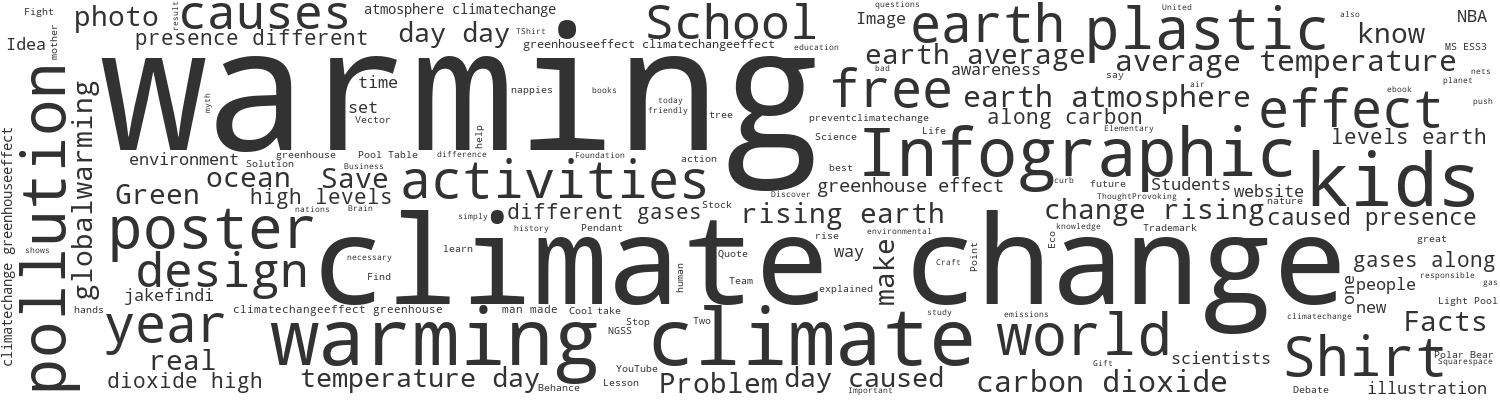
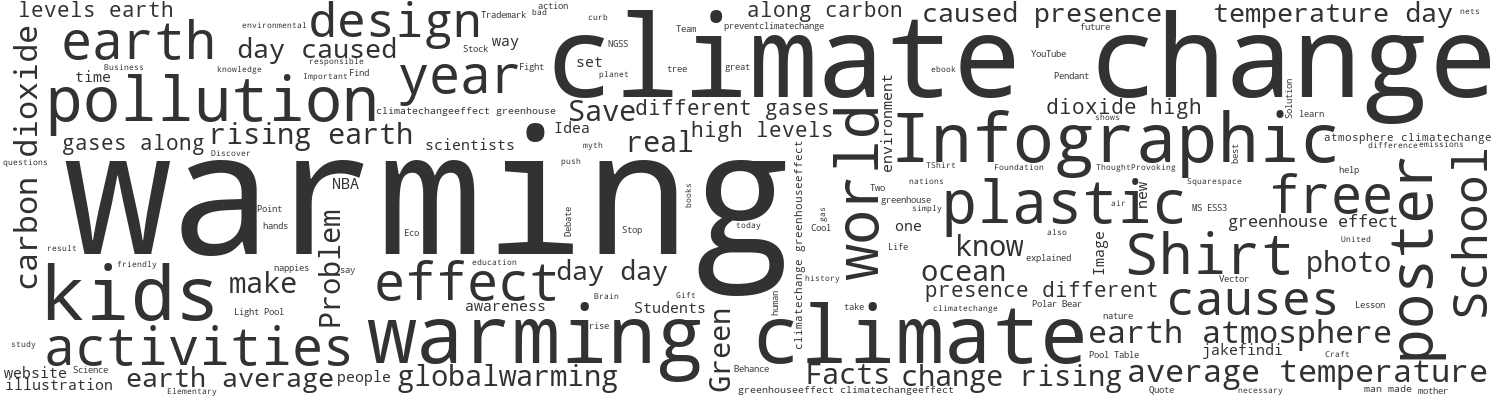
made wordclouds square

diff --git a/vision_functions.py b/vision_functions.py
@@ -143,7 +143,7 @@ def get_wordcloud(label_lists, search_term):
         
     wordcloud = WordCloud(stopwords=[search_term], background_color='white', collocations=True, 
                         max_words=150, 
-                        min_font_size=0, width= 1500, height = 400
+                        min_font_size=0, width= 600, height = 600
                         ).generate(concat_labels)
     plt.figure(figsize=[15,15])
     wordcloud.recolor(color_func=gray_color_func, random_state=9)
